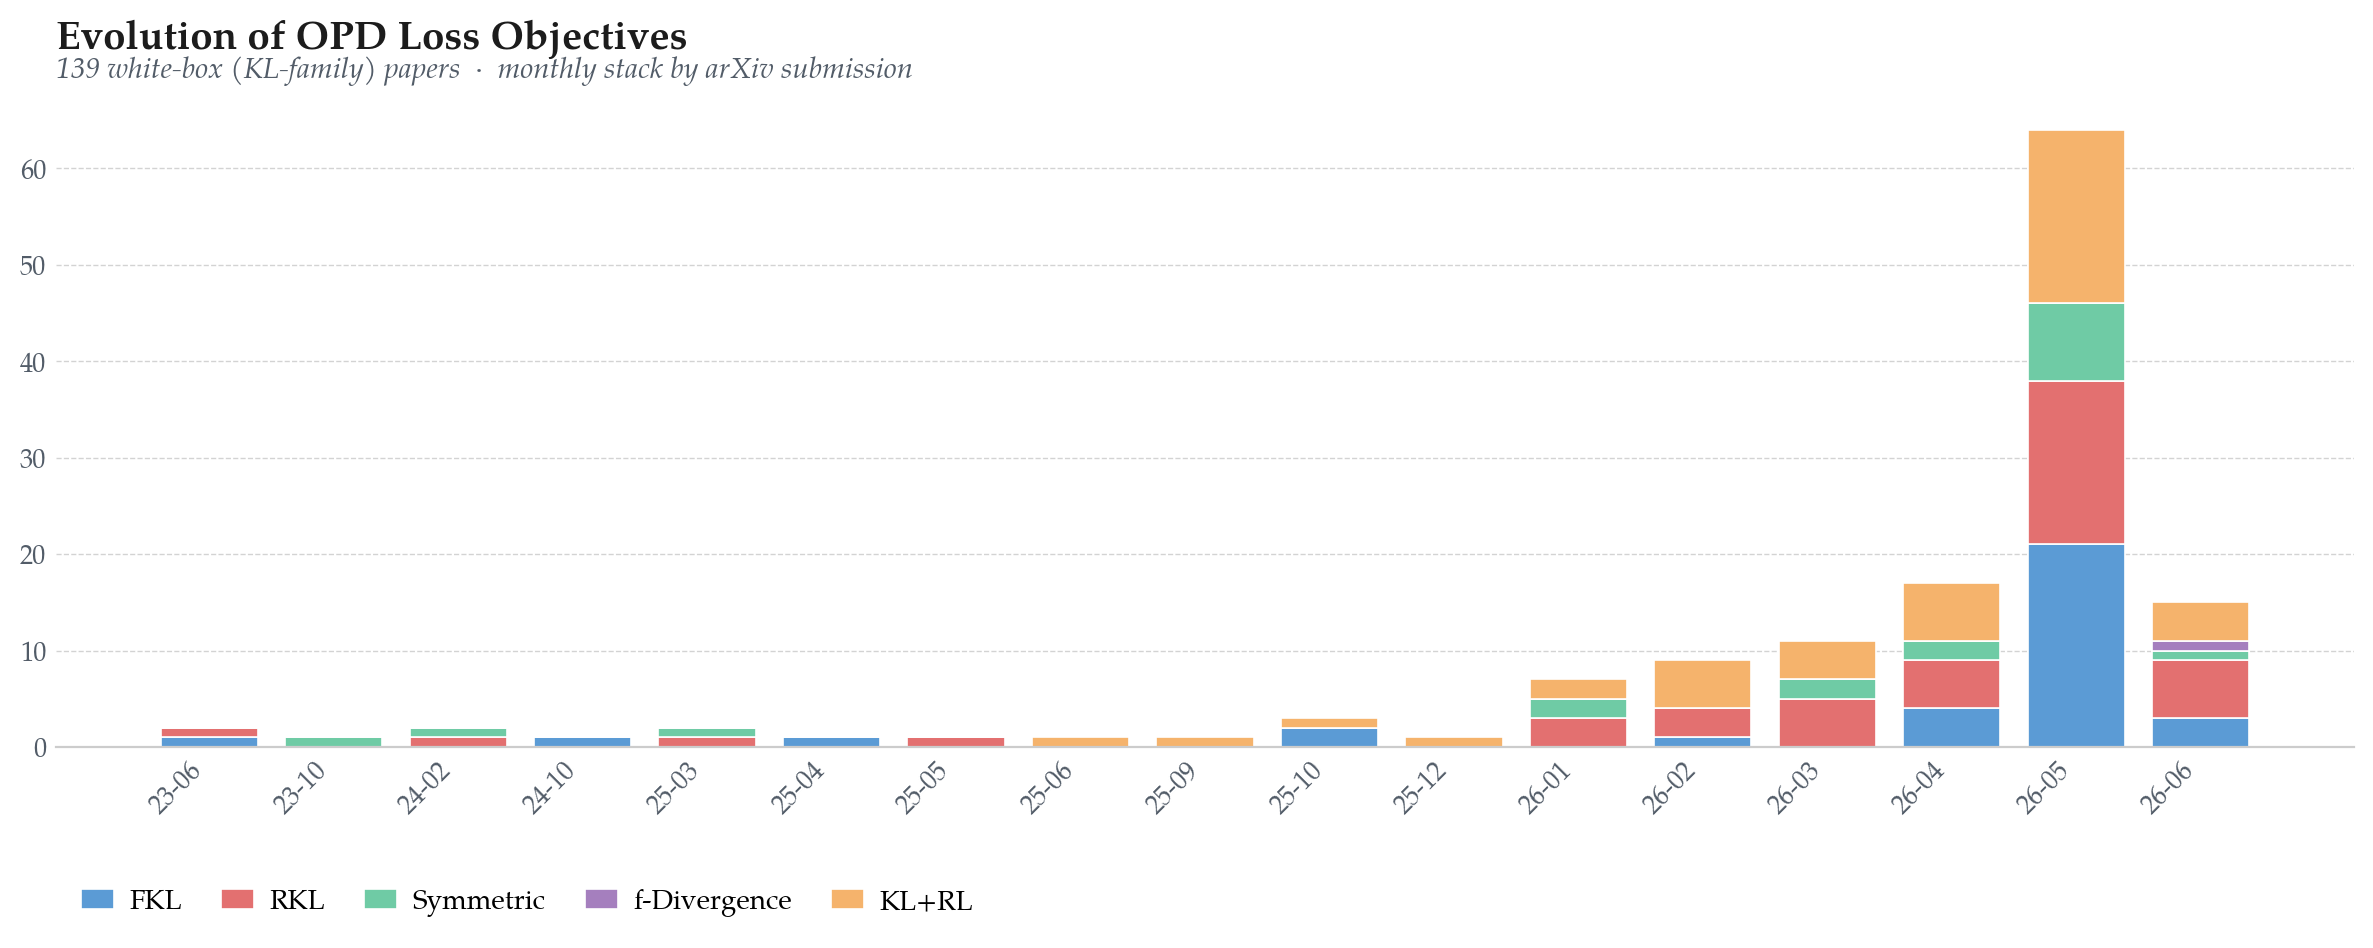
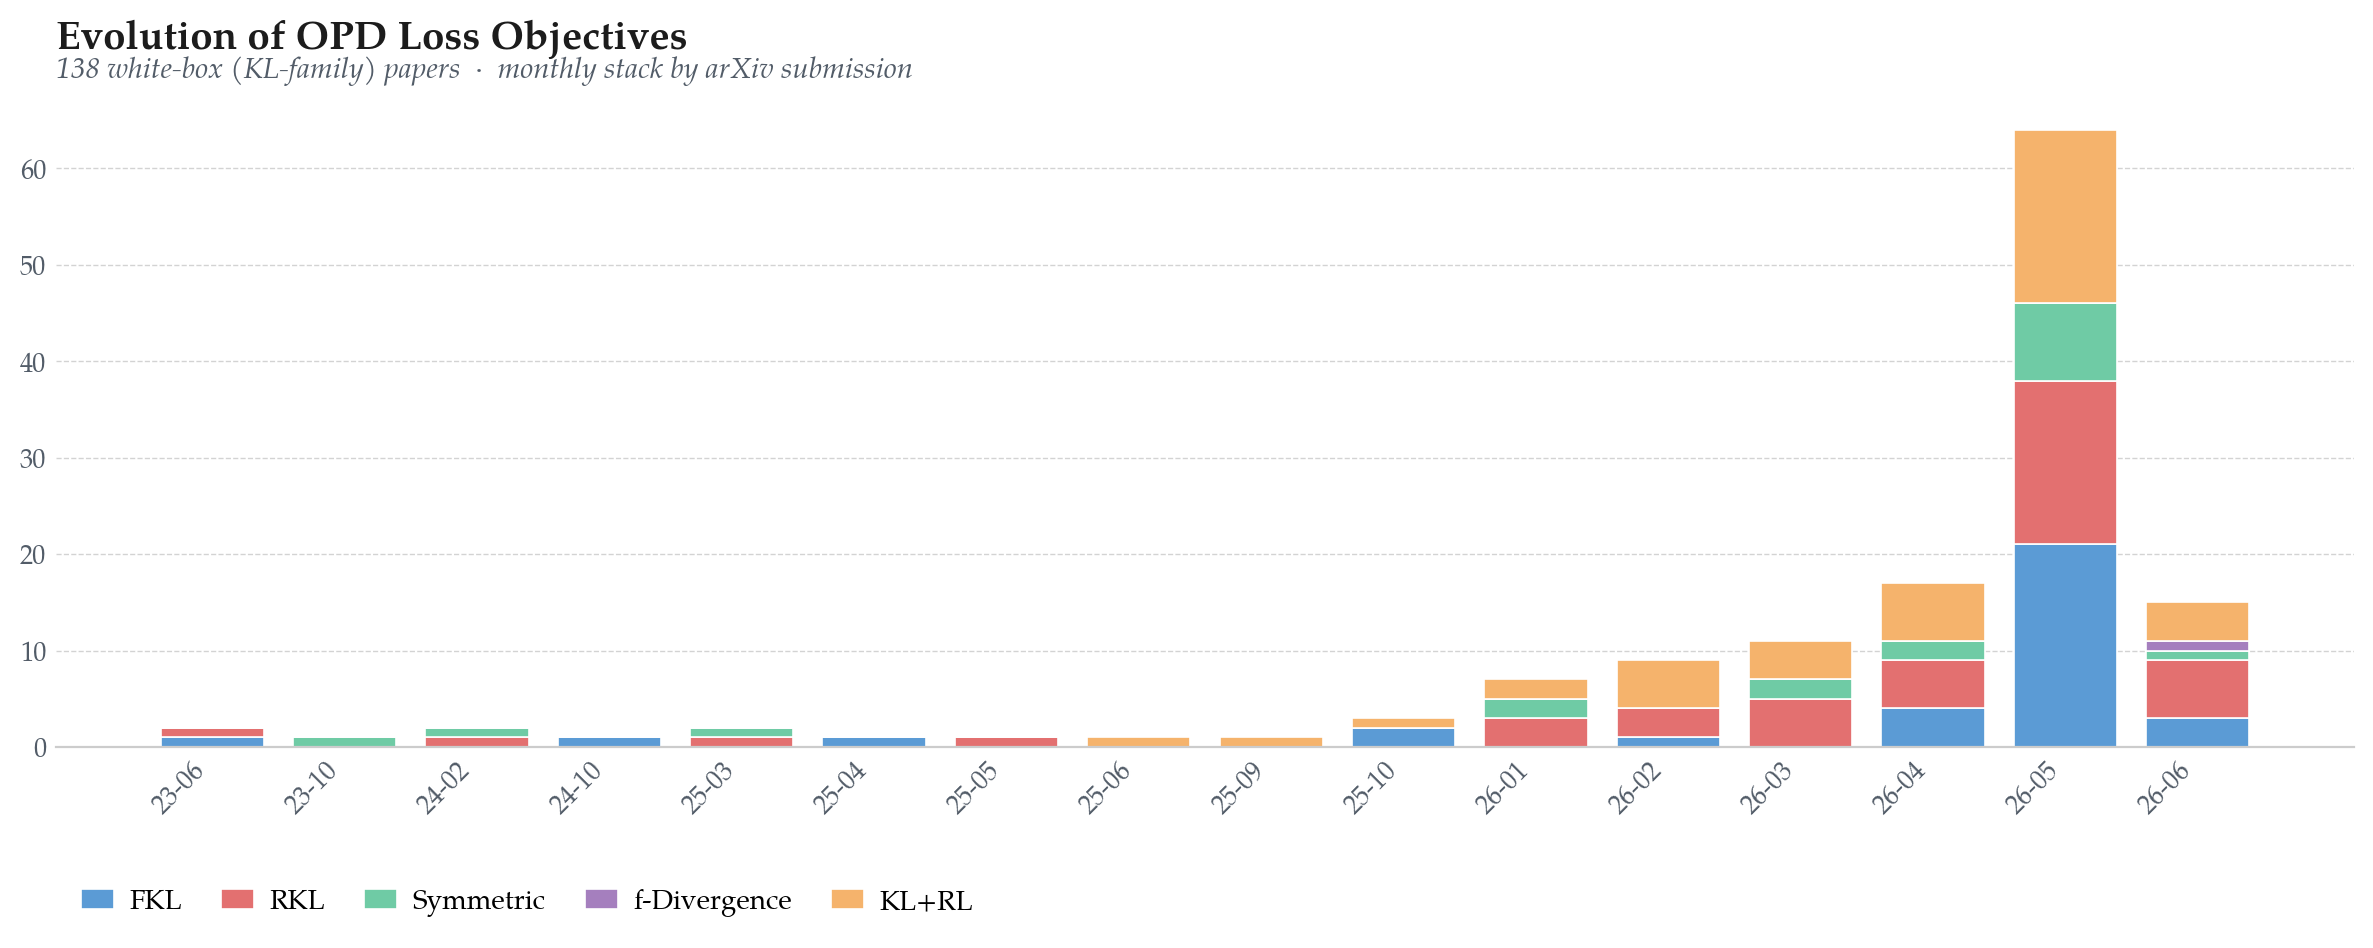
Remove TRAPO (2512.17636) — mis-classified as OPD by auto-pipeline
Manual PDF deep-read prompted by user challenge to the auto-pipeline.
TRAPO is a hybrid SFT+RL framework, NOT on-policy distillation:

- Authors' own framing (Abstract+Introduction): "hybrid framework
  that interleaves SFT and RL within each training instance".
  They never claim it as OPD.

- TrSFT loss applies to offline expert prefix tokens (DeepSeek-R1
  demonstrations) — student does NOT rollout the prefix.

- The student does generate the suffix completion, but receives only
  GRPO+verifier reward there; no teacher-distribution distill term
  on student-generated positions.

- Identical pattern to 2602.13407 (On-Policy SFT for Efficient
  Reasoning), which was removed on 2026-06-03 for the same reason.

The Phase 2 v3-LLM auto-classifier flagged this is_opd=yes because
the title says "Trust-Region" + "Policy Optimization" and the loss
includes "forward KL"; manual audit overrides.

paper count 178 → 177; loss-taxonomy 165 → 164.

diff --git a/resources/loss-taxonomy.md b/resources/loss-taxonomy.md
@@ -2,27 +2,27 @@
 
 _Last updated: 2026-06-05. Auto-generated from `data/loss_classification.json`. Re-run `scripts/generate_loss_taxonomy.py` to refresh._
 
-Each of the **165** OPD papers in this collection is assigned exactly one of seven mutually-exclusive loss classes. Classification is performed by an LLM auditor that reads each paper's `loss_formulation` (LaTeX), training-loop description, and key components, then picks the dominant objective per the rules in `data/loss_taxonomy_schema.json`.
+Each of the **164** OPD papers in this collection is assigned exactly one of seven mutually-exclusive loss classes. Classification is performed by an LLM auditor that reads each paper's `loss_formulation` (LaTeX), training-loop description, and key components, then picks the dominant objective per the rules in `data/loss_taxonomy_schema.json`.
 
 ![Loss Distribution](../assets/loss-distribution.png)
 
-> **Chart scope.** The distribution chart shows only the **139 white-box (KL-family) papers** (FKL / RKL / Symmetric / f-Divergence / KL+RL); the 26 black-box / bespoke methods (Preference, Other) are omitted because their loss form is constrained by teacher access (preference / reward / discriminator / NLL-on-samples) rather than chosen as a divergence design. Per-paper assignments below cover all 165 classified papers regardless of class.
+> **Chart scope.** The distribution chart shows only the **138 white-box (KL-family) papers** (FKL / RKL / Symmetric / f-Divergence / KL+RL); the 26 black-box / bespoke methods (Preference, Other) are omitted because their loss form is constrained by teacher access (preference / reward / discriminator / NLL-on-samples) rather than chosen as a divergence design. Per-paper assignments below cover all 164 classified papers regardless of class.
 
 ## Class definitions (compact)
 
-### FKL — Forward KL  ·  **34** papers (20.6%)
+### FKL — Forward KL  ·  **34** papers (20.7%)
 
 `D_KL( \pi_T(\cdot|x) \| \pi_\theta(\cdot|x) )`
 
 _Match rule._ Loss is dominated by forward KL where the teacher distribution is the first argument (mode-covering). Includes classical KD with KL(teacher || student), CE-on-teacher-soft-targets when explicitly equivalent.
 
-### RKL — Reverse KL  ·  **43** papers (26.1%)
+### RKL — Reverse KL  ·  **43** papers (26.2%)
 
 `D_KL( \pi_\theta(\cdot|x) \| \pi_T(\cdot|x) )`
 
 _Match rule._ Loss is dominated by reverse KL where the student distribution is the first argument (mode-seeking). MiniLLM-style policy-gradient interpretations also fall here when the underlying objective is RKL to a teacher.
 
-### Symmetric — Symmetric / Skewed KL / JSD / GKL  ·  **18** papers (10.9%)
+### Symmetric — Symmetric / Skewed KL / JSD / GKL  ·  **18** papers (11.0%)
 
 `D_JSD, D_skew-KL_\alpha, D_GKL, or any symmetrized KL combination`
 
@@ -34,7 +34,7 @@ _Match rule._ Jensen-Shannon divergence; skewed forward/reverse KL with mixture 
 
 _Match rule._ Adaptive KL family that interpolates a parameter between FKL and RKL via alpha-divergence (AKL / TAID-style). Renyi divergence. Chi-squared. Tsallis.
 
-### KL+RL — Hybrid KL distill + RL reward  ·  **43** papers (26.1%)
+### KL+RL — Hybrid KL distill + RL reward  ·  **42** papers (25.6%)
 
 `L = D_KL(teacher, student) + \lambda \cdot R(x,a) (or GRPO/PPO surrogate with teacher KL)`
 
@@ -46,7 +46,7 @@ _Match rule._ Loss explicitly mixes a teacher-KL distillation term with a verifi
 
 _Match rule._ Preference-pair loss is the primary distillation signal: DPO, IPO, SimPO, or preference-gap KL where teacher provides the chosen response and student avoids rejected.
 
-### Other — Other / Bespoke (NLL, MSE, Contrastive, special)  ·  **24** papers (14.5%)
+### Other — Other / Bespoke (NLL, MSE, Contrastive, special)  ·  **24** papers (14.6%)
 
 `any objective that does not fit the six classes above`
 
@@ -56,16 +56,16 @@ _Match rule._ MSE on hidden states, contrastive InfoNCE between teacher/student 
 
 | Class | Papers | Share |
 |---|---:|---:|
-| FKL | 34 | 20.6% |
-| RKL | 43 | 26.1% |
-| Symmetric | 18 | 10.9% |
+| FKL | 34 | 20.7% |
+| RKL | 43 | 26.2% |
+| Symmetric | 18 | 11.0% |
 | f-Divergence | 1 | 0.6% |
-| KL+RL | 43 | 26.1% |
+| KL+RL | 42 | 25.6% |
 | Preference | 2 | 1.2% |
-| Other | 24 | 14.5% |
-| **Total** | **165** | 100% |
+| Other | 24 | 14.6% |
+| **Total** | **164** | 100% |
 
-_Confidence breakdown: high=108, medium=56, low=1._
+_Confidence breakdown: high=108, medium=55, low=1._
 
 ![Loss Evolution Over Time](../assets/loss-evolution.png)
 
@@ -187,7 +187,7 @@ _Confidence breakdown: high=108, medium=56, low=1._
 |---|---|---|---|
 | [2606.01039](https://arxiv.org/abs/2606.01039) | OPD+: Rethinking the Advantage Design for On-Policy Distillation | high | Loss uses general f-divergence framework with w_f(u) = -f(u) + u*f'(u), generalizing beyond KL to arbitrary f-divergences. |
 
-### KL+RL (43)
+### KL+RL (42)
 
 | arXiv | Title | Conf | Evidence |
 |---|---|---|---|
@@ -230,7 +230,6 @@ _Confidence breakdown: high=108, medium=56, low=1._
 | [2602.00400](https://arxiv.org/abs/2602.00400) | KEPO: Knowledge-Enhanced Preference Optimization for Reinforcement Learning with Reasoning | high | Loss combines GRPO advantage-weighted RL term w_i(θ)Â_i with quality-gated teacher distillation D_T(π_T‖π_θ), both load-bearing. |
 | [2601.16547](https://arxiv.org/abs/2601.16547) | CORD: Bridging the Audio–Text Reasoning Gap via Weighted On-policy Cross-modal Distilla... | high | LCORD = Ltok (weighted reverse KL distillation from text modality teacher) + Lseq (GRPO reward-based RL). Both are load-bearing. |
 | [2601.02780](https://arxiv.org/abs/2601.02780) | MiMo-V2-Flash Technical Report | high | Â_MOPD,t combines sg[log(π_teacher/π_θ)] (token-level reverse KL advantage from teachers) with α*Â_ORM (GRPO reward advantage).... |
-| [2512.17636](https://arxiv.org/abs/2512.17636) | Trust-Region Adaptive Policy Optimization | medium | L = L_TrSFT^alpha + L_GRPO combines teacher-supervised SFT (expert prefix imitation) with GRPO RL reward signal on completions. |
 | [2510.23497](https://arxiv.org/abs/2510.23497) | VOLD: Reasoning Transfer from LLMs to Vision-Language Models via On-Policy Distillation | high | L_VOLD = L_GRPO + β·E[(1-r(τ))·KL(π_φ\|\|π_θ)], combining GRPO reward surrogate with teacher-to-student FKL distillation. |
 | [2509.22921](https://arxiv.org/abs/2509.22921) | Rethinking Large Language Model Distillation: A Constrained Markov Decision Process Per... | high | Loss combines binary task reward R with KL constraint (cumulative KL to teacher as budget), both load-bearing in CMDP formulation. |
 | [2506.02208](https://arxiv.org/abs/2506.02208) | KDRL: Post-Training Reasoning LLMs via Unified Knowledge Distillation and Reinforcement... | high | J_KDRL = J_GRPO − β·D^{k2}_KL(π_θ‖π_T) explicitly combines GRPO RL surrogate with teacher KL distillation term. |

diff --git a/README.md b/README.md
@@ -17,7 +17,7 @@
 
 <p align="center">
   <a href="https://awesome.re"><img src="https://awesome.re/badge.svg" alt="Awesome"></a>
-  <img src="https://img.shields.io/badge/Papers-178-blue" alt="Papers">
+  <img src="https://img.shields.io/badge/Papers-177-blue" alt="Papers">
   <img src="https://img.shields.io/github/last-commit/nick7nlp/Awesome-LLM-On-Policy-Distillation?label=Last%20Updated&color=green" alt="Last Updated">
   <img src="https://img.shields.io/badge/Survey-V3-orange" alt="Survey V3">
 </p>
@@ -351,7 +351,6 @@ On-Policy Distillation (Survey V3 Structure)
 | 🟡 [Bridging Reasoning Trajectories in On-Policy Distillation via Near-Future Guidance](https://arxiv.org/abs/2606.00305) <br><sub>📐 Qwen3-30B-A3B-Instruct-2507 → Qwen3-4B-Instruct-2507; Trajectory-aware OPD using OT-based near-future guidance to fix token-level reasoning correction failures</sub> | 2026 |  |
 | 🟡 [Decomposed On-Policy Distillation for Vision-Language Reasoning: Steering Gradients for Visual Grounding](https://arxiv.org/abs/2606.00564) <br><sub>📐 Qwen3-VL-8B-Instruct → Qwen3-VL-2B-Instruct; Decomposes VLM on-policy distillation into language prior and visual grounding, steering gradients toward visual subspace</sub> | 2026 |  |
 | 🟡 [OPD+: Rethinking the Advantage Design for On-Policy Distillation](https://arxiv.org/abs/2606.01039) <br><sub>📐 Qwen3-8B → Qwen3-8B-Base; Corrects advantage estimation in on-policy distillation via f-divergence gradient analysis</sub> | 2026 |  |
-| 🟡 [Trust-Region Adaptive Policy Optimization](https://arxiv.org/abs/2512.17636) <br><sub>📐 Qwen2.5-Math-7B / Qwen2.5-7B-Instruct → DeepSeek-R1; TRAPO: Trust-Region SFT (TrSFT) modifies forward-KL with dynamic trust region; interleaves prefix-conditioned SFT with RL on completions; adaptive prefix selection by utility</sub> | 2026 |  |
 | 🟡 [Reinforcement Learning from Rich Feedback with Distributional DAgger](https://arxiv.org/abs/2606.05152) <br><sub>📐 Qwen3-8B → Self; Distributional DAgger via forward cross-entropy: monotonic-improvement objective with future-aware credit assignment, an OPD analogue of RL distributional bootstrapping.</sub> | 2026 |  |
 
 <p align="right">(<a href="#readme-top">back to top</a>)</p>
@@ -721,7 +720,6 @@ On-Policy Distillation (Survey V3 Structure)
 | [Reducing the Safety Tax in LLM Safety Alignment with On-Policy Self-Distillation](https://arxiv.org/abs/2605.15239) | §8.1 | Safety alignment application of on-policy self-distillation; teacher flip rate metric |
 | [DeltaPrompts: Escaping the Zero-Delta Trap in Multimodal Distillation](https://arxiv.org/abs/2605.15532) | §6.2 | Prompt synthesis for OPD; answer-divergence-guided curriculum (NVIDIA, NeurIPS 2025) |
 | [Trust-Region Behavior Blending for On-Policy Distillation](https://arxiv.org/abs/2605.31159) | §6.2 | Trust-region warmup curriculum; teacher-guided behavior policy under student-centered KL constraint stabilizes early-stage OPD |
-| [Trust-Region Adaptive Policy Optimization](https://arxiv.org/abs/2512.17636) | §4.1 | TrSFT: dynamic trust-region forward-KL on expert prefixes interleaved with RL completions; adaptive prefix selection |
 | [Filter, Then Reweight: Rethinking Optimization Granularity in On-Policy Distillation](https://arxiv.org/abs/2606.02684) | §6.1 | FiRe-OPD: trajectory filtering by teacher log-prob + soft token reweighting via PPO-clipped weighted advantage |
 | [World Models Meet Language Models: On the Complementarity of Concrete and Abstract Reasoning](https://arxiv.org/abs/2606.03603) | §5.3.1 | Privileged-info self-distillation: future videos + GT answers as privileged context teach MLLMs when to invoke / verify world-model rollouts |
 | [Preference-Based Self-Distillation: Beyond KL Matching via Reward Regularization](https://arxiv.org/abs/2605.05040) | §5.3.1 | PBSD: black-box OPD via DPO with privileged-context self-teacher y⁺ and on-policy student y⁻; per-step rollouts |

diff --git a/CHANGELOG.md b/CHANGELOG.md
@@ -2,6 +2,10 @@
 
 All notable additions to this collection are documented here.
 
+## [2026-06-05, manual deep-read audit]
+### Removed (mis-classified as OPD)
+- **TRAPO** (2512.17636) — *Trust-Region Adaptive Policy Optimization* — removed from §4.1 + Pending Papers. After PDF deep-read prompted by user challenge: authors explicitly frame the method as "hybrid SFT + RL", never as on-policy distillation. The TrSFT loss applies to **offline expert prefix tokens** (DeepSeek-R1 demonstrations), not to student-rollout positions. The student does generate the suffix completion, but receives only GRPO + verifier reward there — no teacher-distribution distill term anywhere on student-generated tokens. Same hybrid-imitation+RL pattern as 2602.13407 (On-Policy SFT for Efficient Reasoning), which was removed on 2026-06-03 for identical reasons. The auto-pipeline's v3 LLM mis-classified this paper as is_opd=yes; manual audit overrides. Paper count 178 → 177.
+
 ## [2026-06-04, later edit]
 ### Restored (audit correction)
 After re-deriving the OPD inclusion principle ("**student rollout in training loop** is the hard line; loss form is dictated by teacher access — black-box methods physically cannot use `D_KL(π_θ ‖ π_T)` and must fall back to reward / discriminator / preference signals"), two papers removed earlier today / on 2026-06-03 were re-audited and restored. The original removal criterion ("no teacher-distribution KL term") was too strict and conflated black-box constraint with non-OPD.
